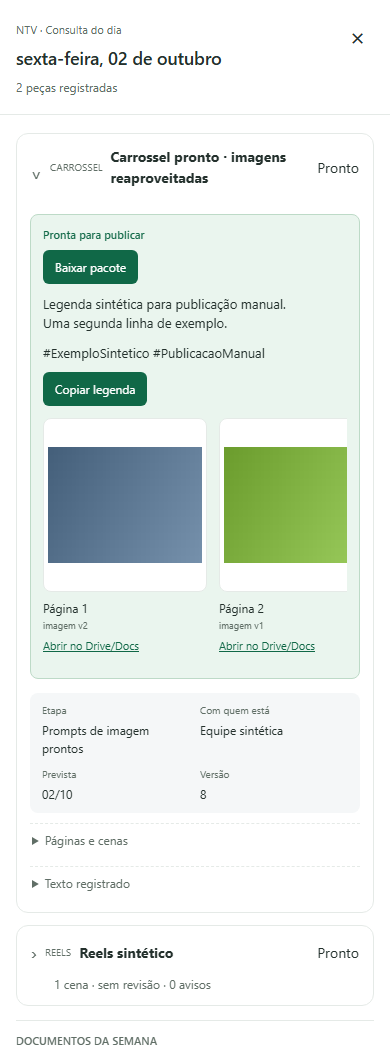
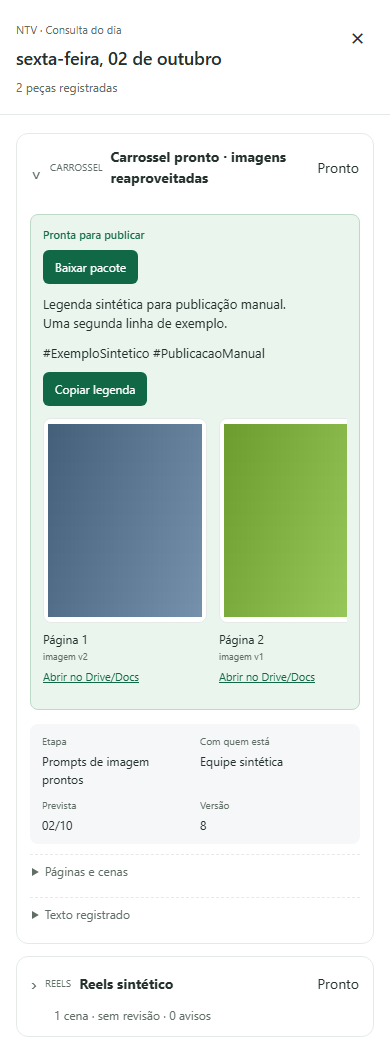
fix: preservar artes 4:5 nas previas

diff --git a/src/web/styles.css b/src/web/styles.css
@@ -205,8 +205,8 @@ dialog::backdrop{background:var(--backdrop)}
 .copy-status:empty{display:none}
 .preview-gallery{display:flex;gap:12px;overflow-x:auto;max-width:100%;min-width:0;padding:12px 0;scroll-padding:0}
 .preview-item{flex:0 0 164px;min-width:0;font-size:11px}
-.preview-button{display:block;position:relative;width:100%;height:174px;padding:4px;background:var(--surface);border:1px solid var(--line);border-radius:8px;overflow:hidden}
-.preview-button img{display:block;width:100%;height:100%;object-fit:contain}
+.preview-button{display:grid;place-items:center;grid-template-rows:minmax(0,1fr);position:relative;width:100%;aspect-ratio:4/5;padding:4px;background:var(--surface);border:1px solid var(--line);border-radius:8px;overflow:hidden}
+.preview-button img{display:block;width:auto;height:auto;max-width:100%;max-height:100%;min-height:0;object-fit:contain}
 .preview-button img[hidden],.preview-status[hidden]{display:none}
 .preview-status{position:absolute;inset:0;display:flex;align-items:center;justify-content:center;padding:12px;color:var(--muted);background:var(--surface-secondary);font-size:12px}
 .preview-button:disabled{cursor:default}
@@ -214,11 +214,12 @@ dialog::backdrop{background:var(--backdrop)}
 .preview-version{display:block;color:var(--muted);margin-bottom:5px}
 .preview-item a{color:var(--green-dark)}
 .piece-body,.publication-ready{min-width:0}
-dialog.preview-viewer{inset:0;margin:auto;width:min(960px,calc(100% - 32px));height:auto;max-height:calc(100% - 32px);padding:16px;border:1px solid var(--line);border-radius:12px;overflow:hidden}
+dialog.preview-viewer{inset:0;margin:auto;width:min(960px,calc(100% - 32px));height:calc(100dvh - 32px);max-height:calc(100dvh - 32px);padding:16px;border:1px solid var(--line);border-radius:12px;overflow:hidden}
+dialog.preview-viewer[open]{display:grid;grid-template-rows:auto minmax(0,1fr)}
 .preview-viewer-top{display:flex;align-items:center;justify-content:space-between;gap:12px;flex-shrink:0;margin-bottom:12px}
 .preview-viewer-top h2{font-size:16px;overflow-wrap:anywhere}
 .preview-viewer-top button{flex-shrink:0;padding:8px 12px;background:var(--button-fill);color:var(--button-ink);border-radius:6px;font-size:12px}
-.preview-viewer>img{display:block;width:100%;height:auto;min-height:0;max-height:calc(100dvh - 120px);object-fit:contain}
+.preview-viewer>img{display:block;place-self:center;width:auto;height:auto;min-height:0;max-width:100%;max-height:100%;object-fit:contain}
 .board-ready{font-size:11px;margin-top:6px}
 .detail-section{margin:14px 0}
 .detail-section h3{font-size:11px;color:var(--muted);text-transform:uppercase;margin-bottom:6px}
